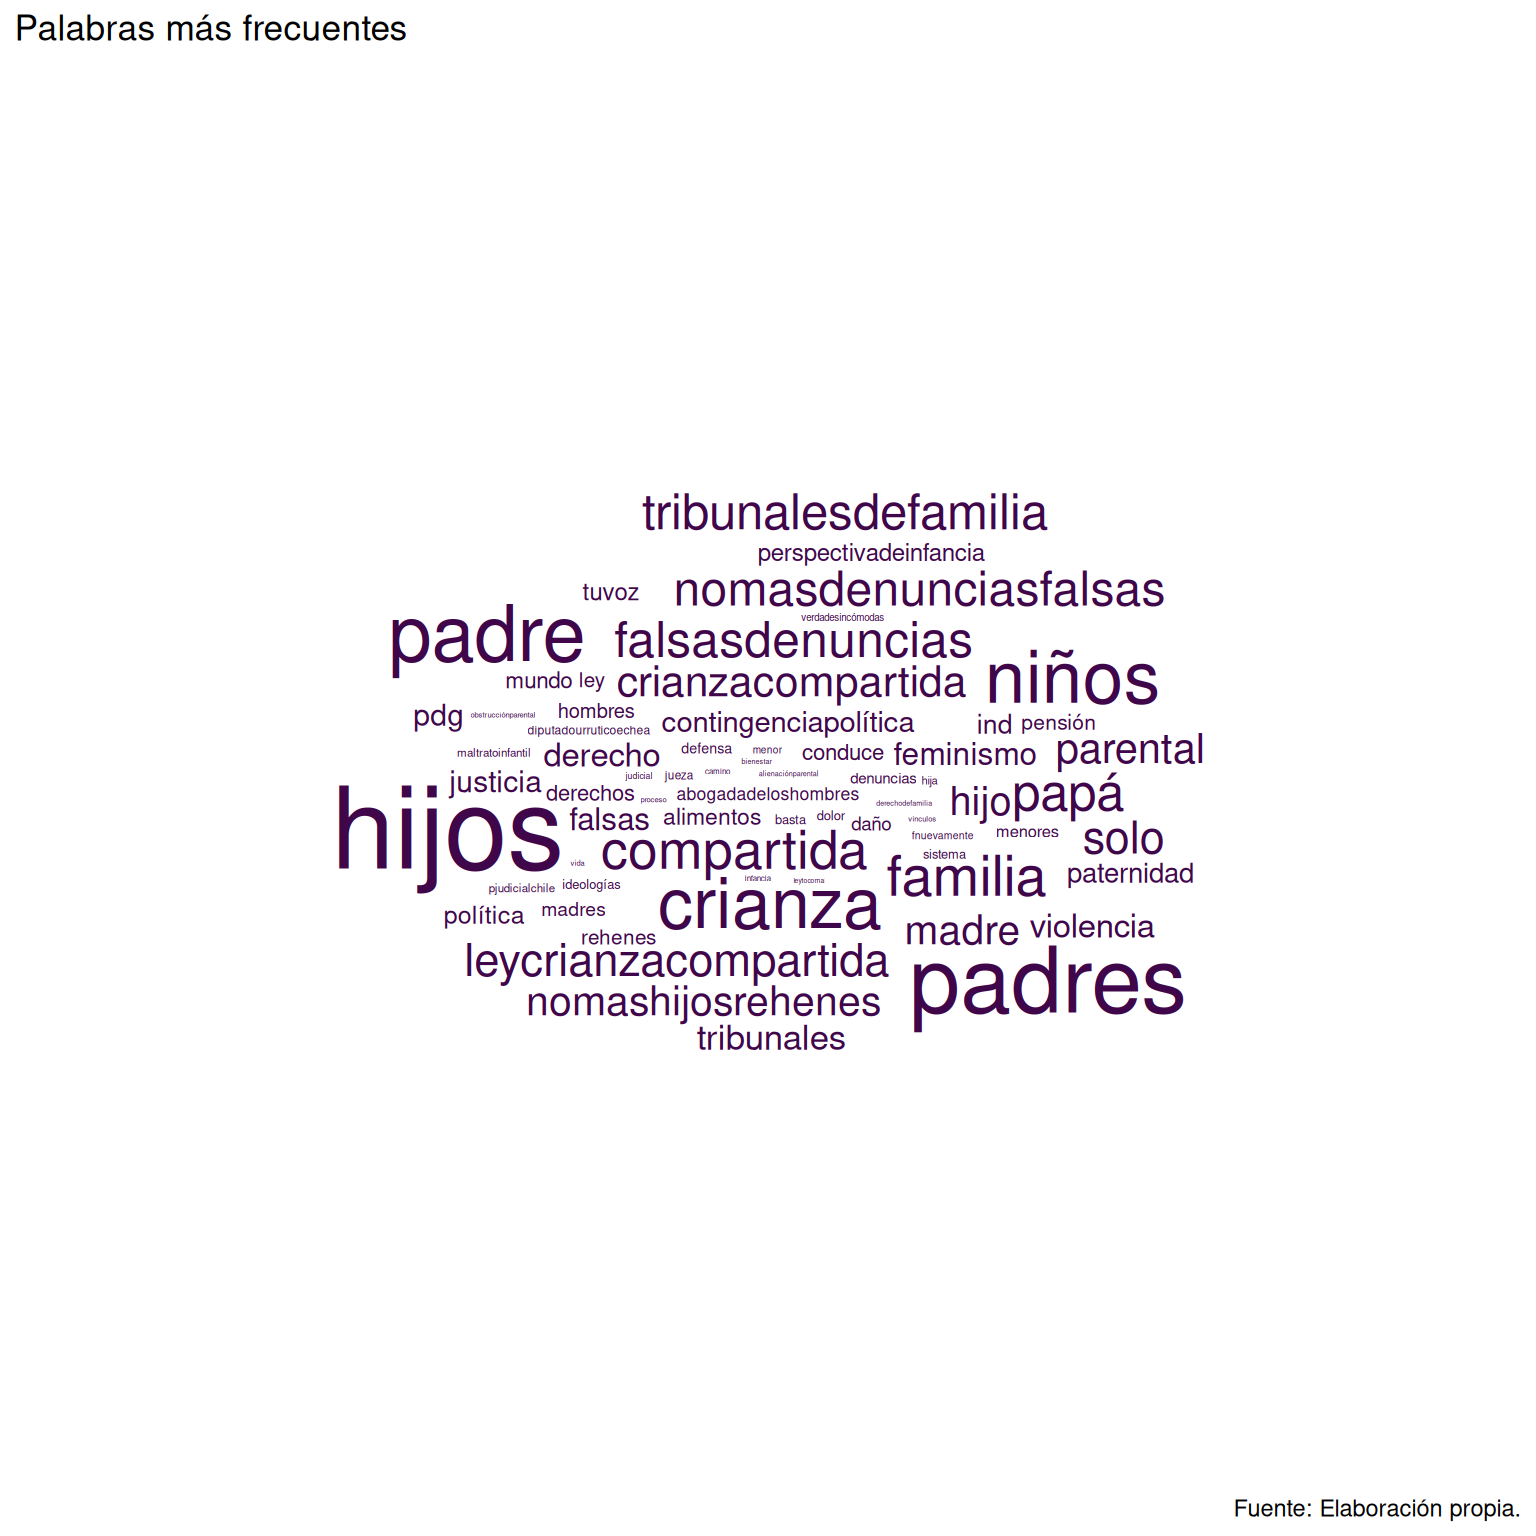
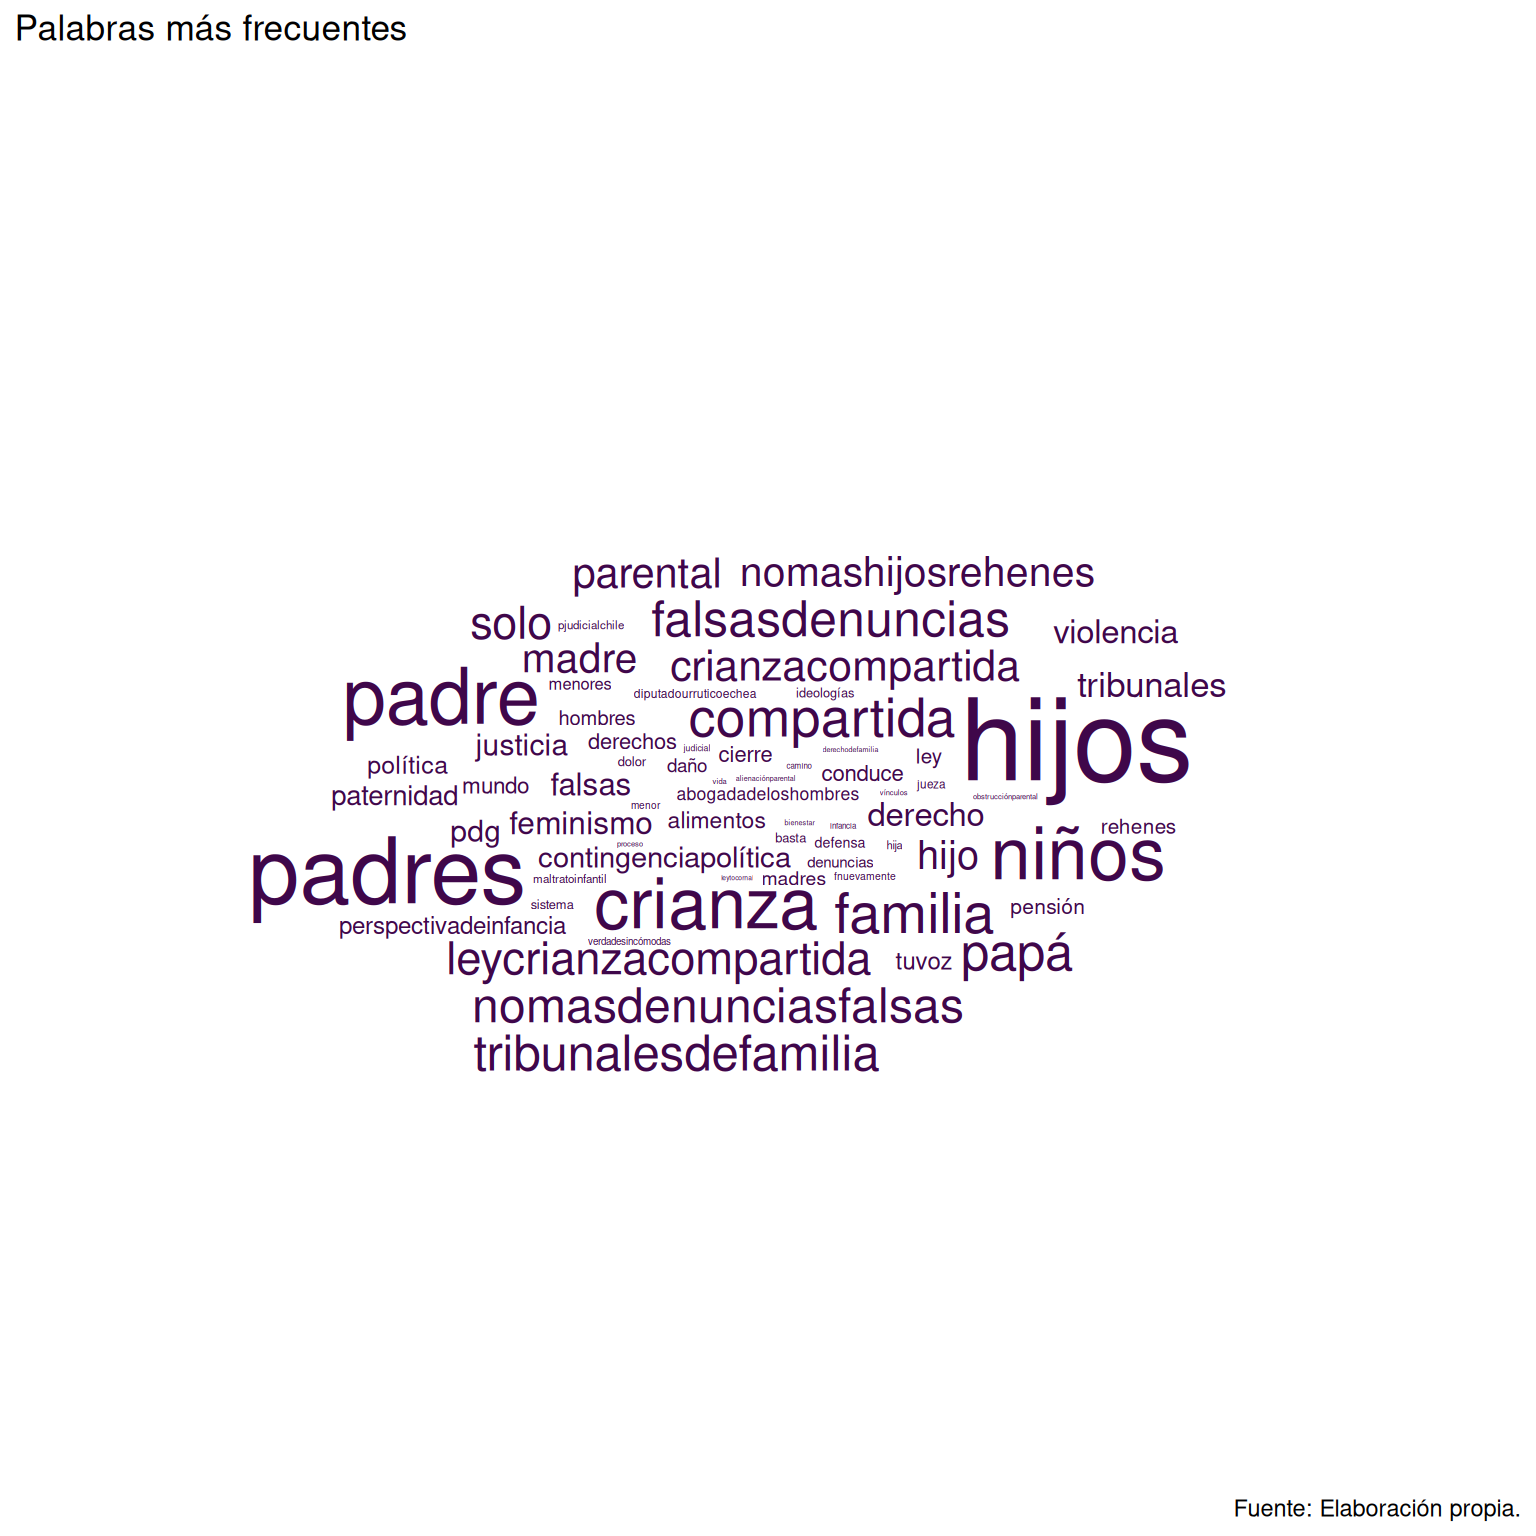
descriptivos emociones

Changed region(s): [[0.1562, 0.3125, 0.8125, 0.7188]]

diff --git a/descriptivos-cuentas-grupo-3.html b/descriptivos-cuentas-grupo-3.html
@@ -111,6 +111,7 @@ ul.task-list li input[type="checkbox"] {
   <li><a href="#exclusión-de-palabras" id="toc-exclusión-de-palabras" class="nav-link" data-scroll-target="#exclusión-de-palabras">Exclusión de palabras</a></li>
   <li><a href="#nube-de-palabras-top-10-de-cada-cuenta" id="toc-nube-de-palabras-top-10-de-cada-cuenta" class="nav-link" data-scroll-target="#nube-de-palabras-top-10-de-cada-cuenta">Nube de palabras (top 10 de cada cuenta)</a></li>
   <li><a href="#nube-de-palablas-general" id="toc-nube-de-palablas-general" class="nav-link" data-scroll-target="#nube-de-palablas-general">Nube de palablas general</a></li>
+  <li><a href="#análisis-de-emociones" id="toc-análisis-de-emociones" class="nav-link" data-scroll-target="#análisis-de-emociones">Análisis de Emociones</a></li>
   </ul></li>
   </ul>
 </nav>
@@ -1144,6 +1145,27 @@ ul.task-list li input[type="checkbox"] {
 <div>
 <figure class="figure">
 <p><img src="descriptivos-cuentas-grupo-3_files/figure-html/unnamed-chunk-21-1.png" class="img-fluid figure-img" width="864"></p>
+</figure>
+</div>
+</div>
+</div>
+</section>
+<section id="análisis-de-emociones" class="level2">
+<h2 class="anchored" data-anchor-id="análisis-de-emociones">Análisis de Emociones</h2>
+<div class="cell">
+<div class="cell-output-display">
+<div>
+<figure class="figure">
+<p><img src="descriptivos-cuentas-grupo-3_files/figure-html/unnamed-chunk-22-1.png" class="img-fluid figure-img" width="960"></p>
+</figure>
+</div>
+</div>
+</div>
+<div class="cell">
+<div class="cell-output-display">
+<div>
+<figure class="figure">
+<p><img src="descriptivos-cuentas-grupo-3_files/figure-html/unnamed-chunk-23-1.png" class="img-fluid figure-img" width="960"></p>
 </figure>
 </div>
 </div>
